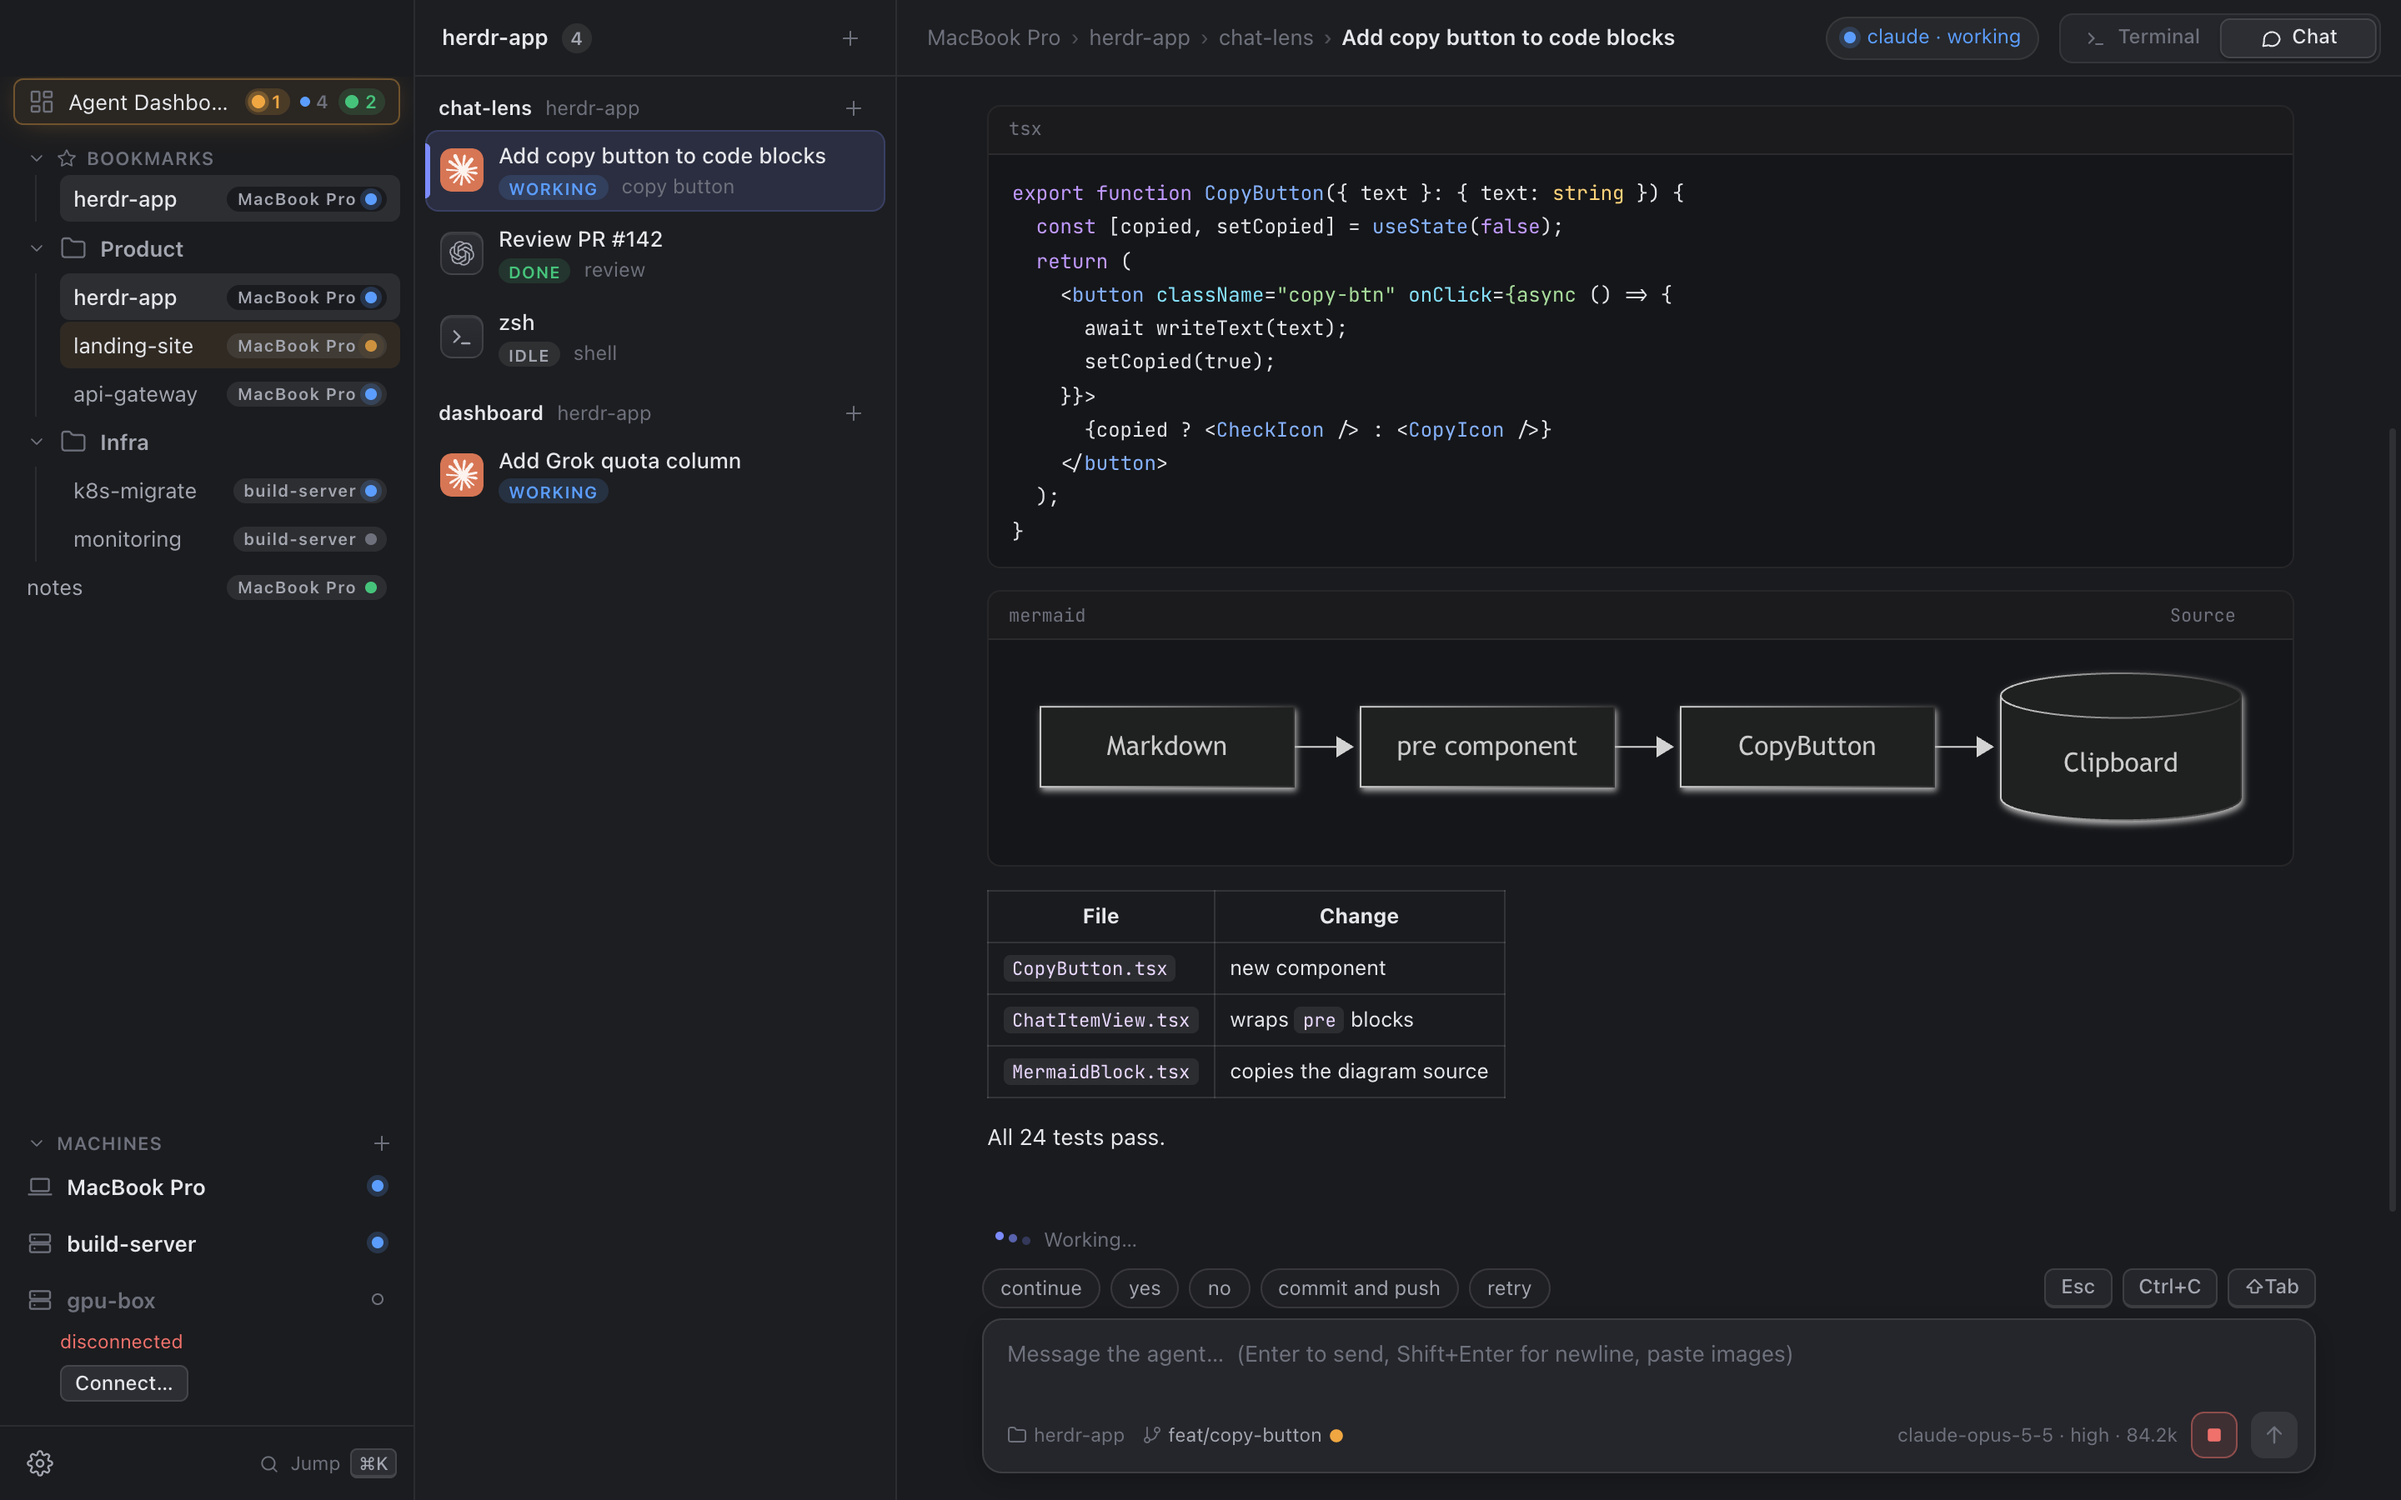
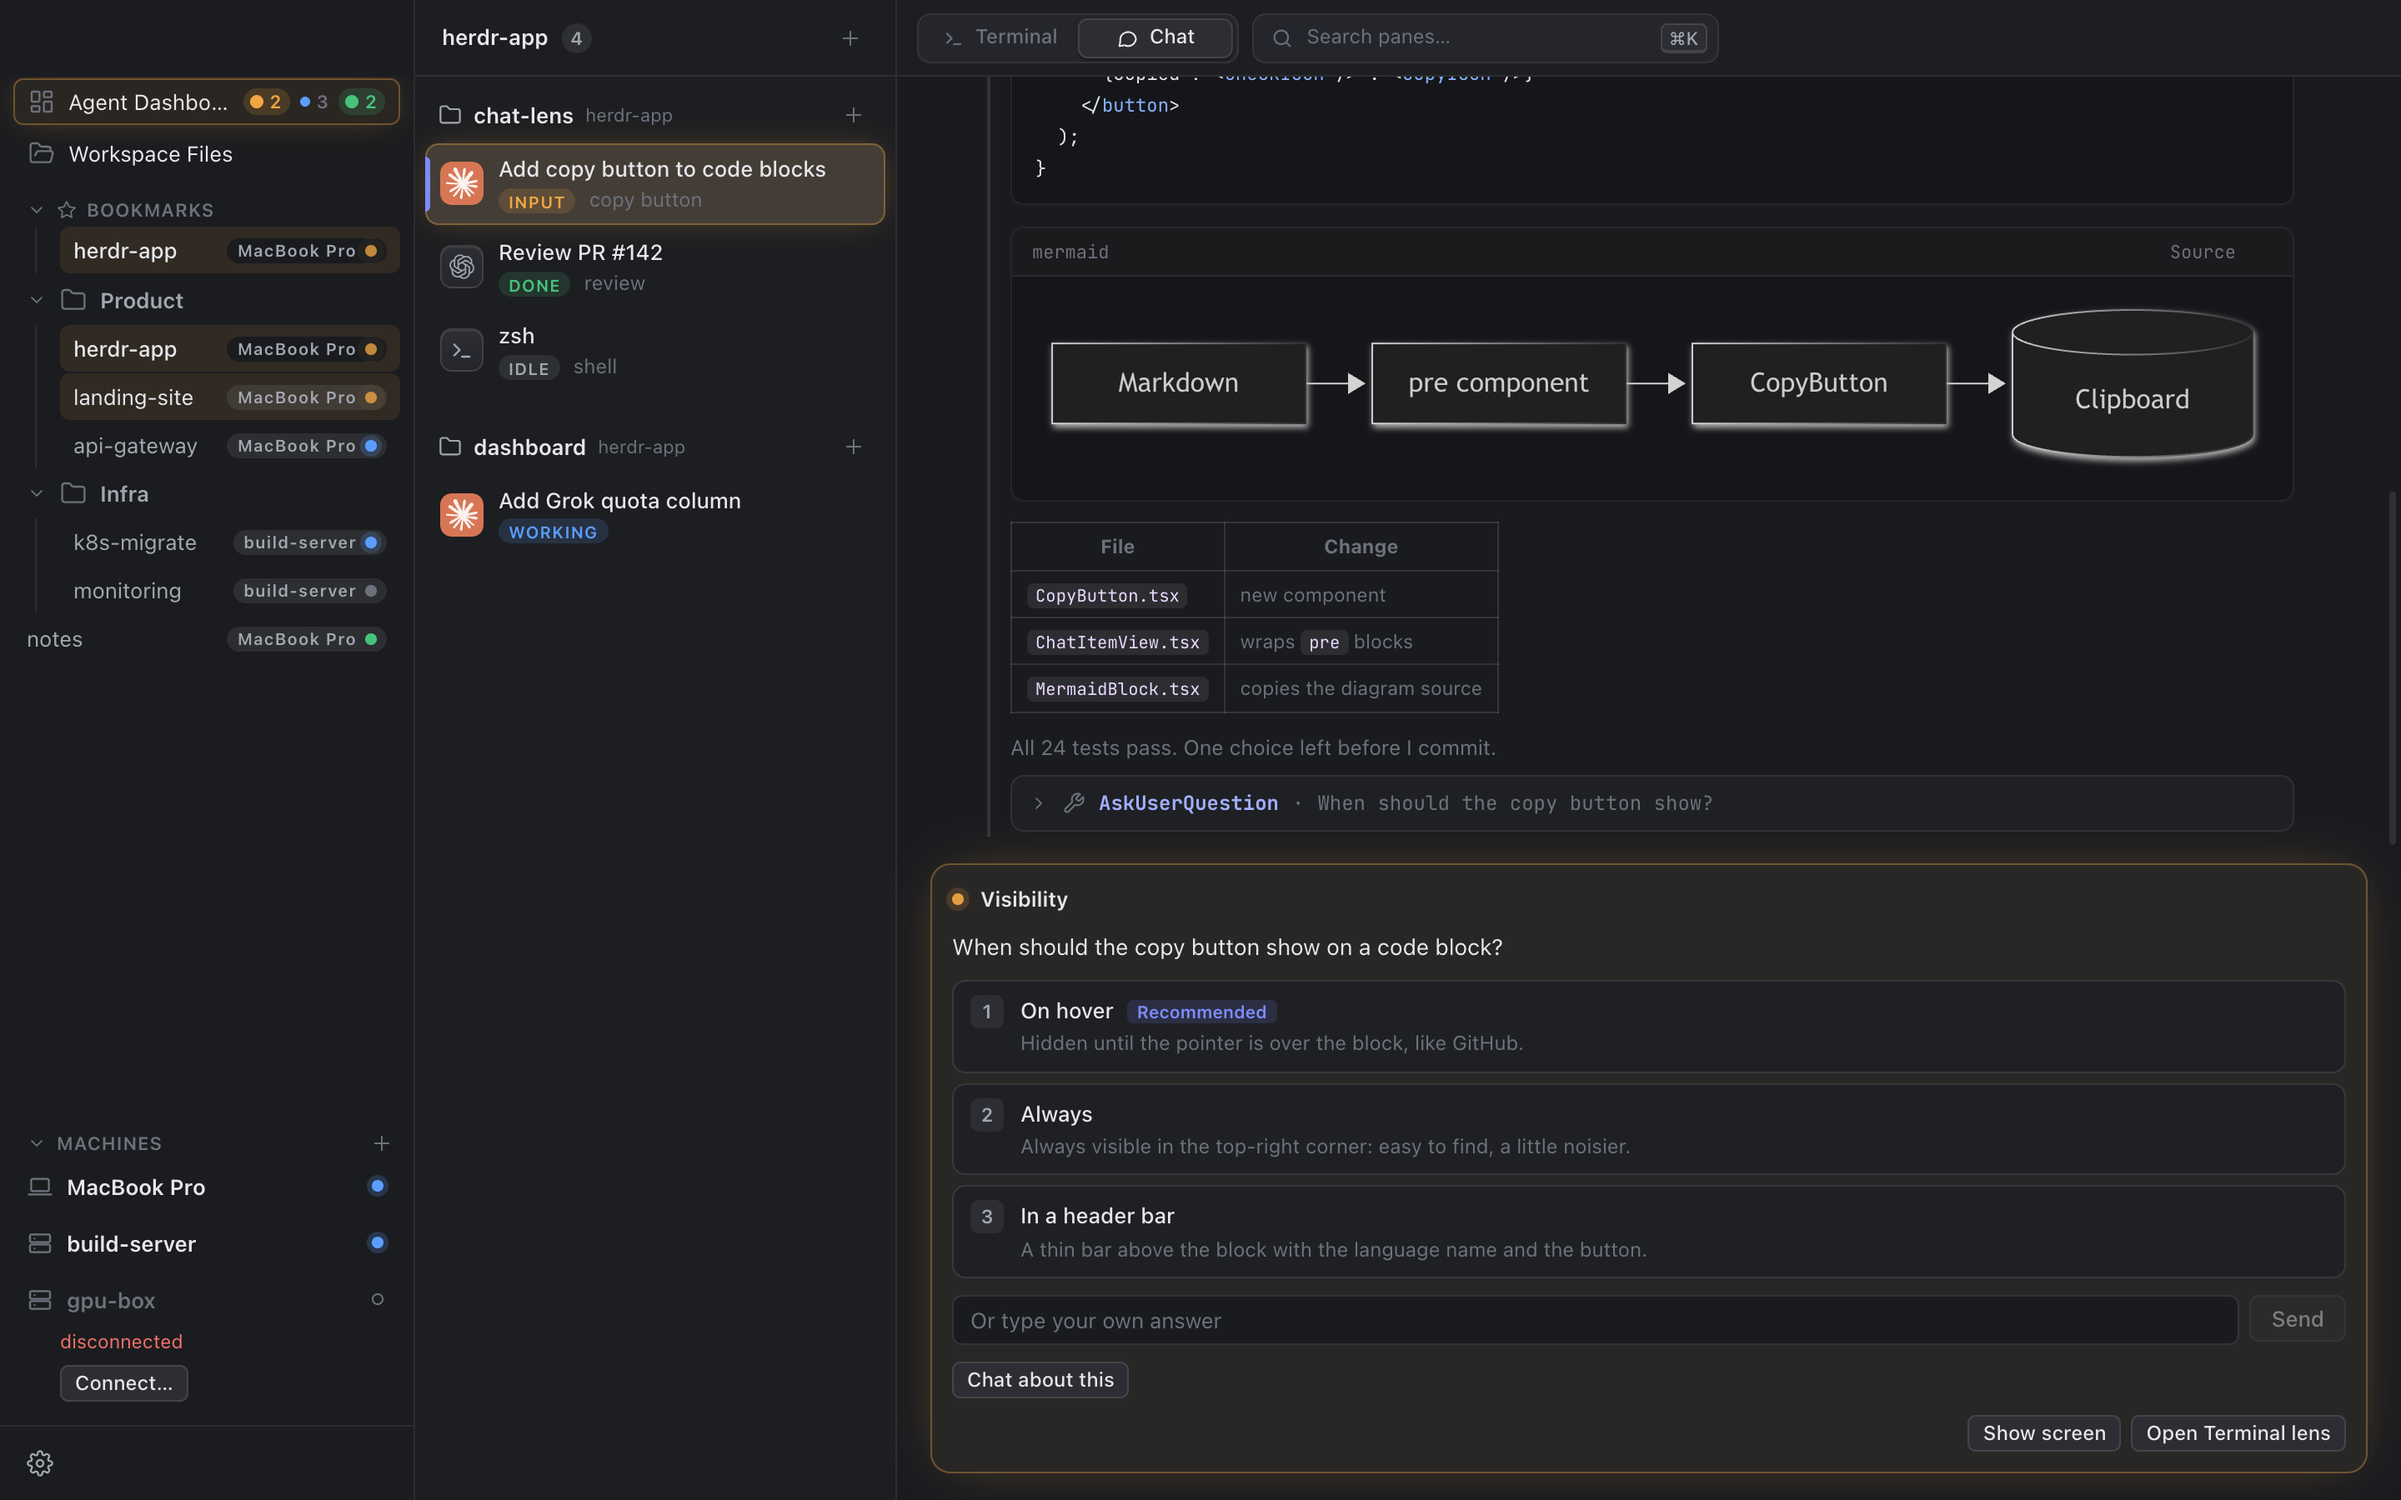
docs: the Chat lens screenshot shows an agent's question card

diff --git a/README.md b/README.md
@@ -2,7 +2,7 @@
 
 A macOS desktop client for the [herdr](https://herdr.dev) terminal multiplexer. It shows the local machine and any number of SSH machines in one sidebar (machines, sessions, workspaces, tabs, panes with agent status), and opens a pane as a real terminal or as a Chat lens for coding agents, and browses a workspace's files in the Workspace Files overlay. Built with Tauri v2, React 19 and zustand 5.
 
-![Chat lens](docs/screenshots/chat.png)
+![Chat lens answering an agent's question](docs/screenshots/chat.png)
 
 | Agent Dashboard | Terminal lens |
 |---|---|
